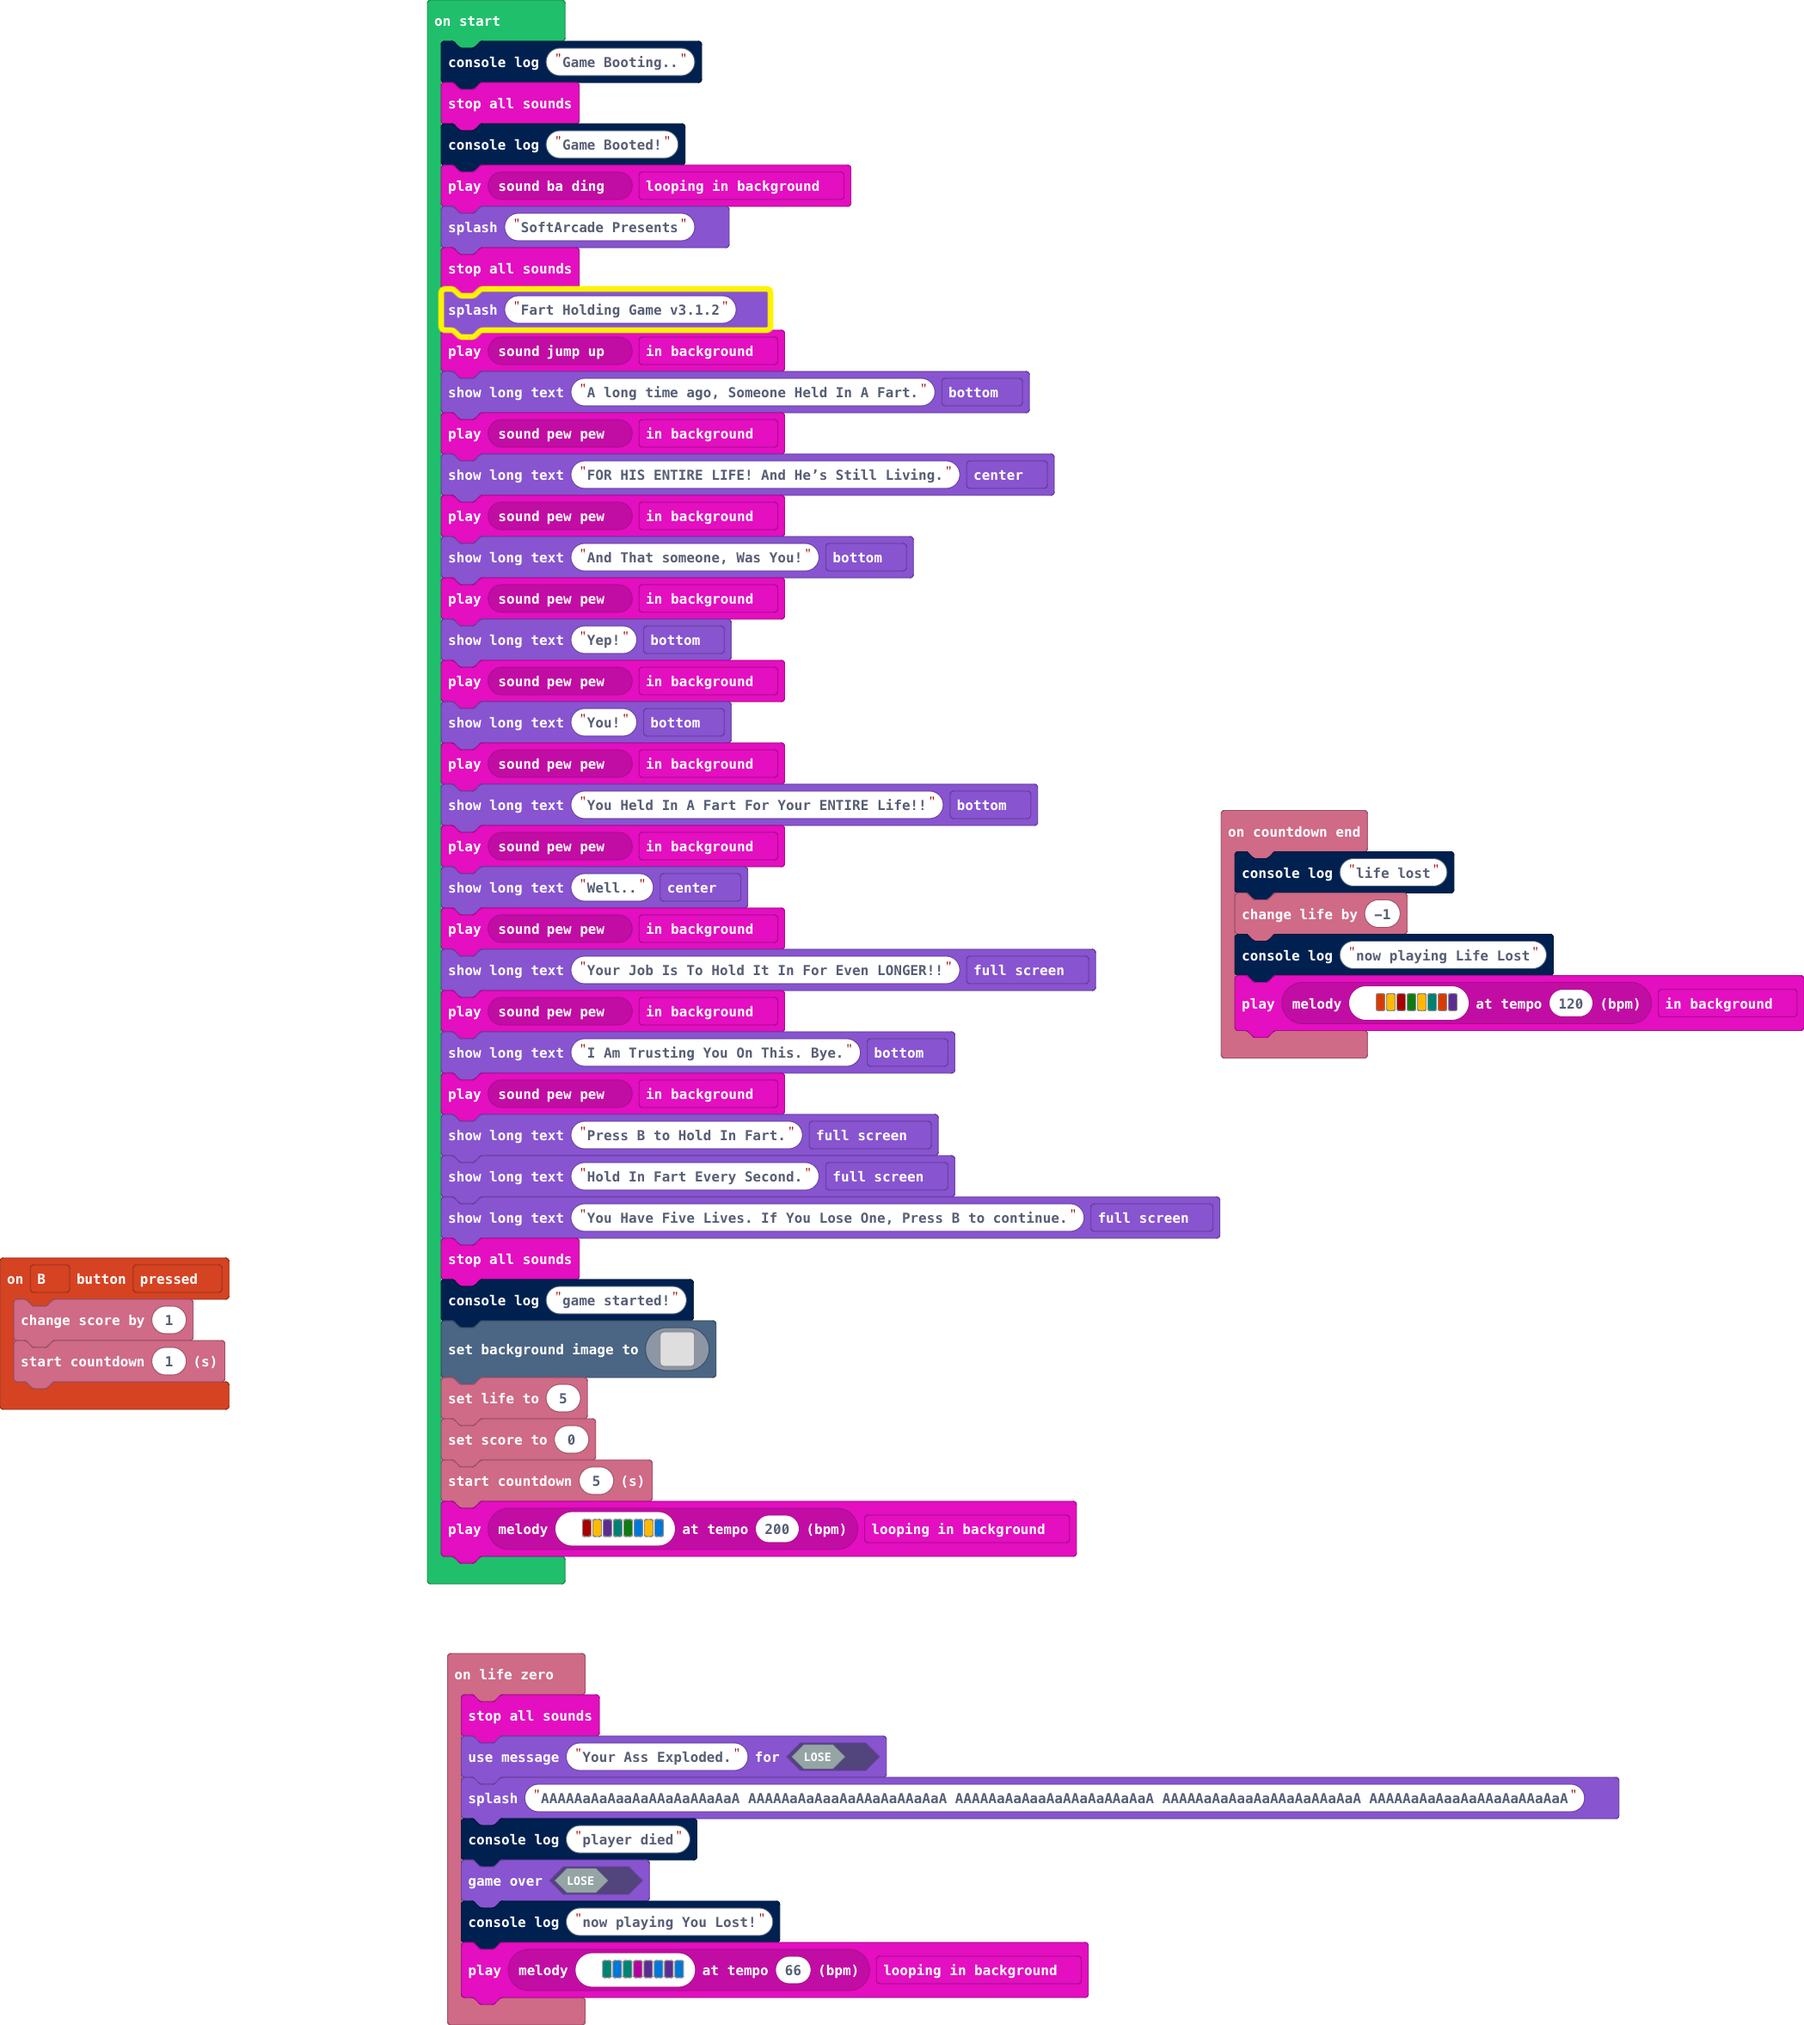
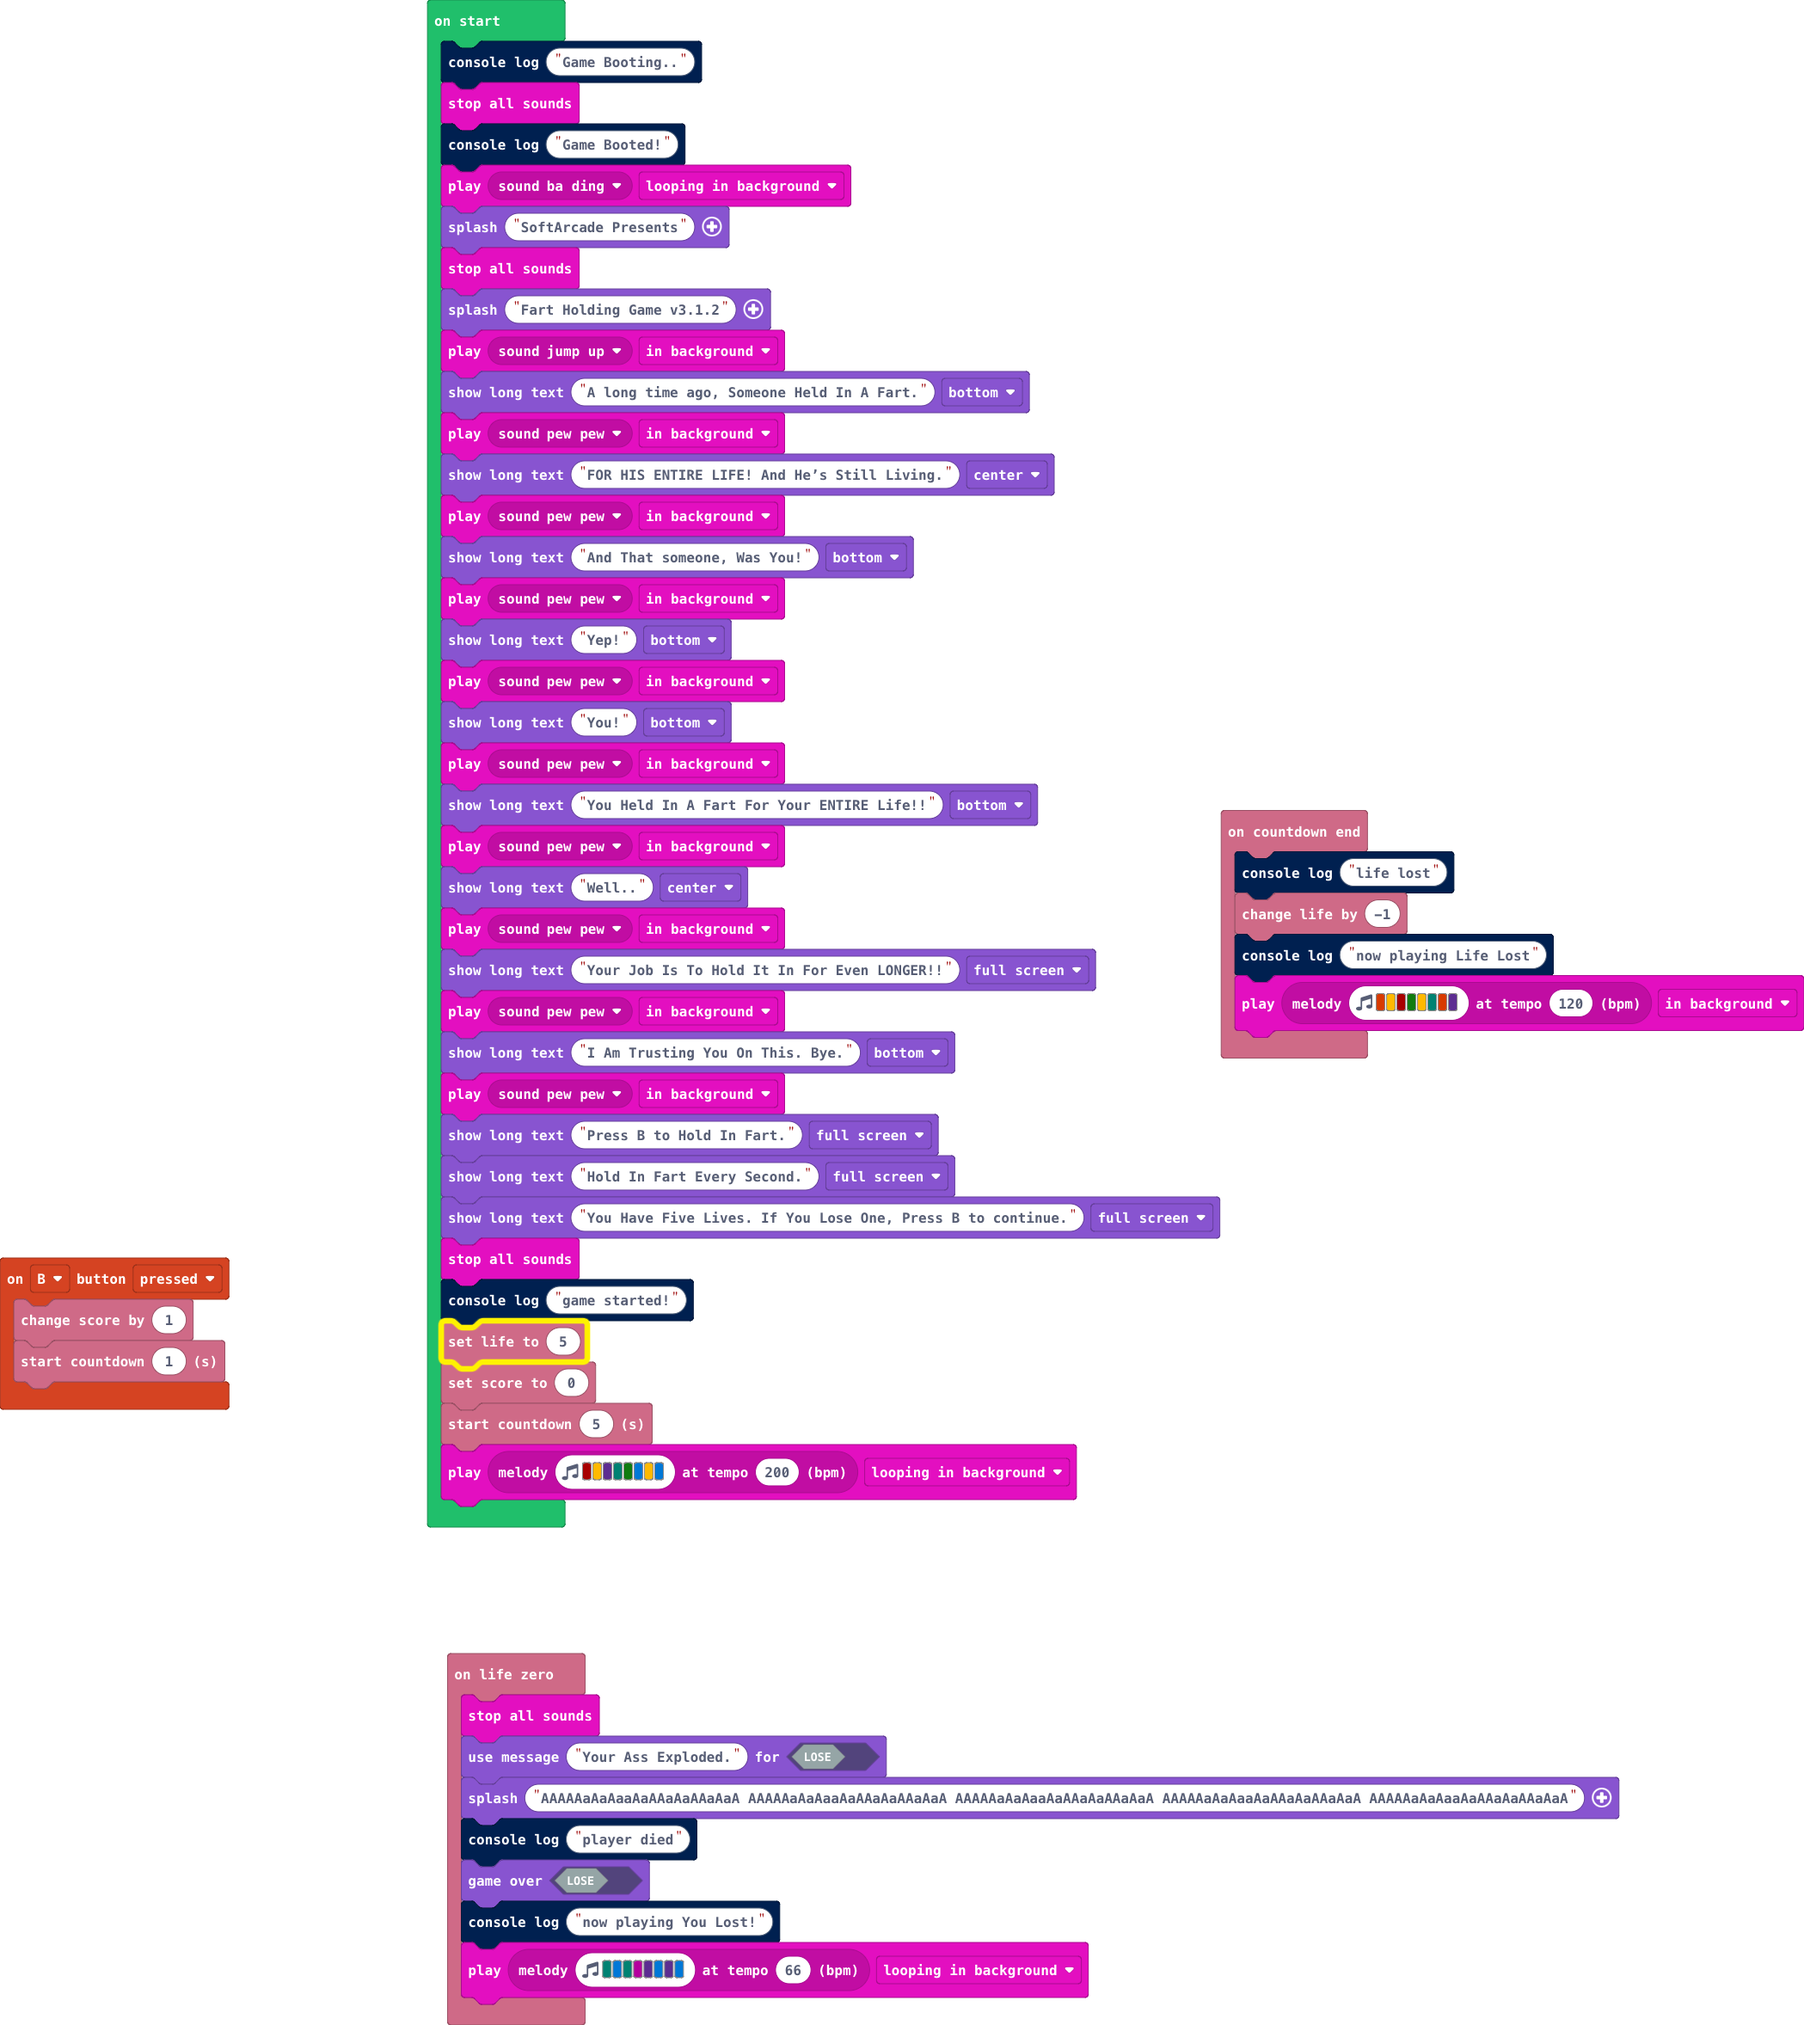
no background because it messes with console.

Changed region(s): [[0.2169, 0.651, 0.6196, 0.8059], [0.2479, 0.124, 0.4337, 0.186]]

diff --git a/main.ts b/main.ts
@@ -48,7 +48,6 @@ game.showLongText("Hold In Fart Every Second.", DialogLayout.Full)
 game.showLongText("You Have Five Lives. If You Lose One, Press B to continue.", DialogLayout.Full)
 music.stopAllSounds()
 console.log("game started!")
-scene.setBackgroundImage(assets.image`Zero`)
 info.setLife(5)
 info.setScore(0)
 info.startCountdown(5)
